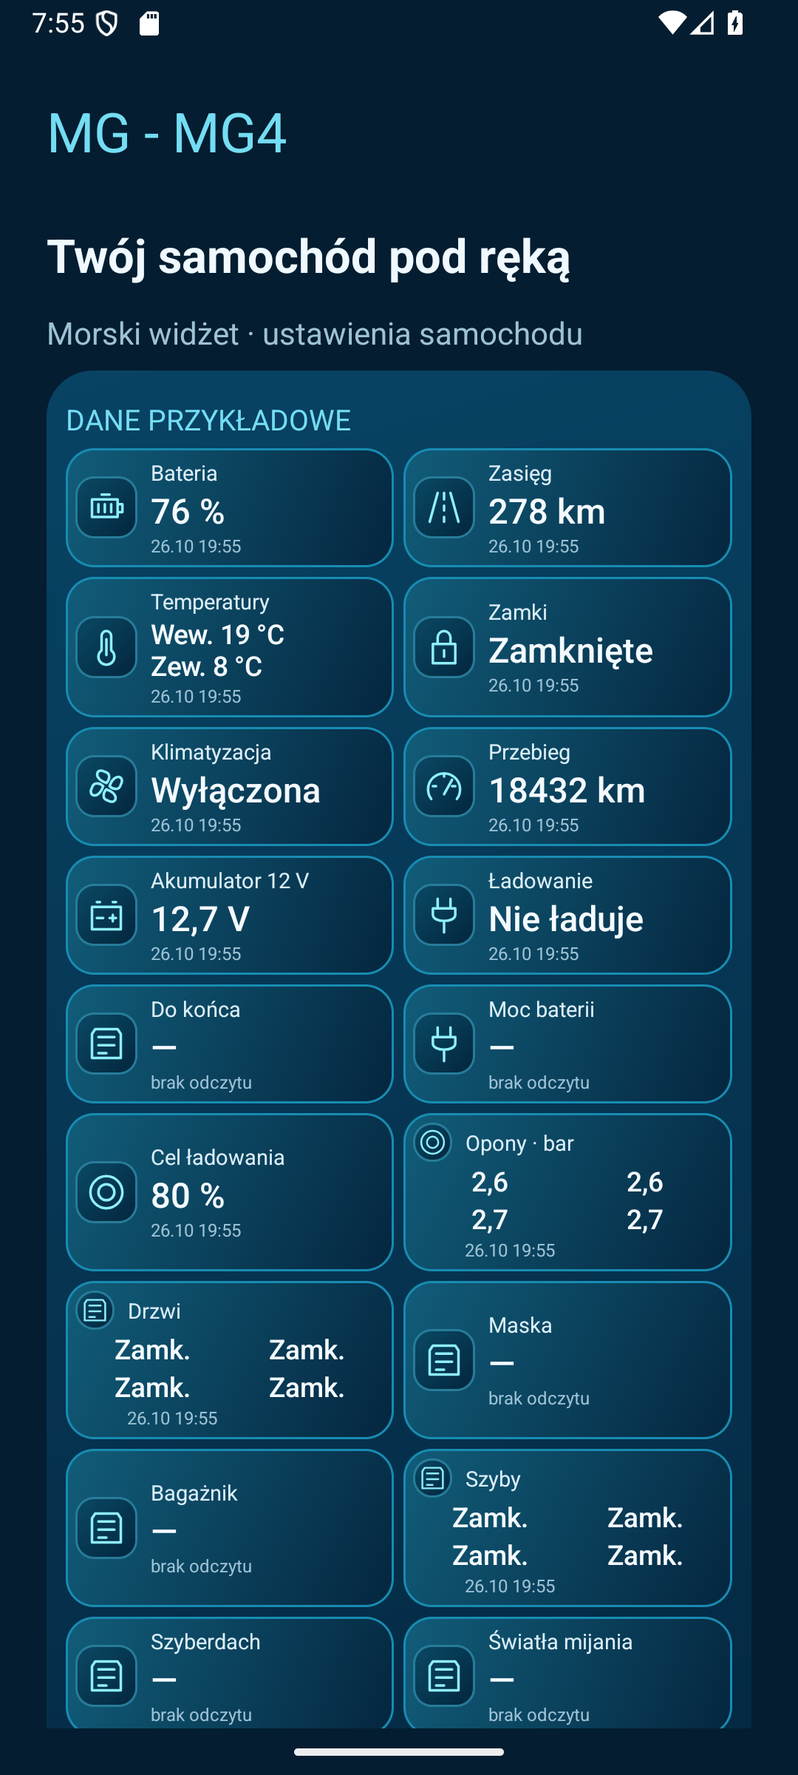
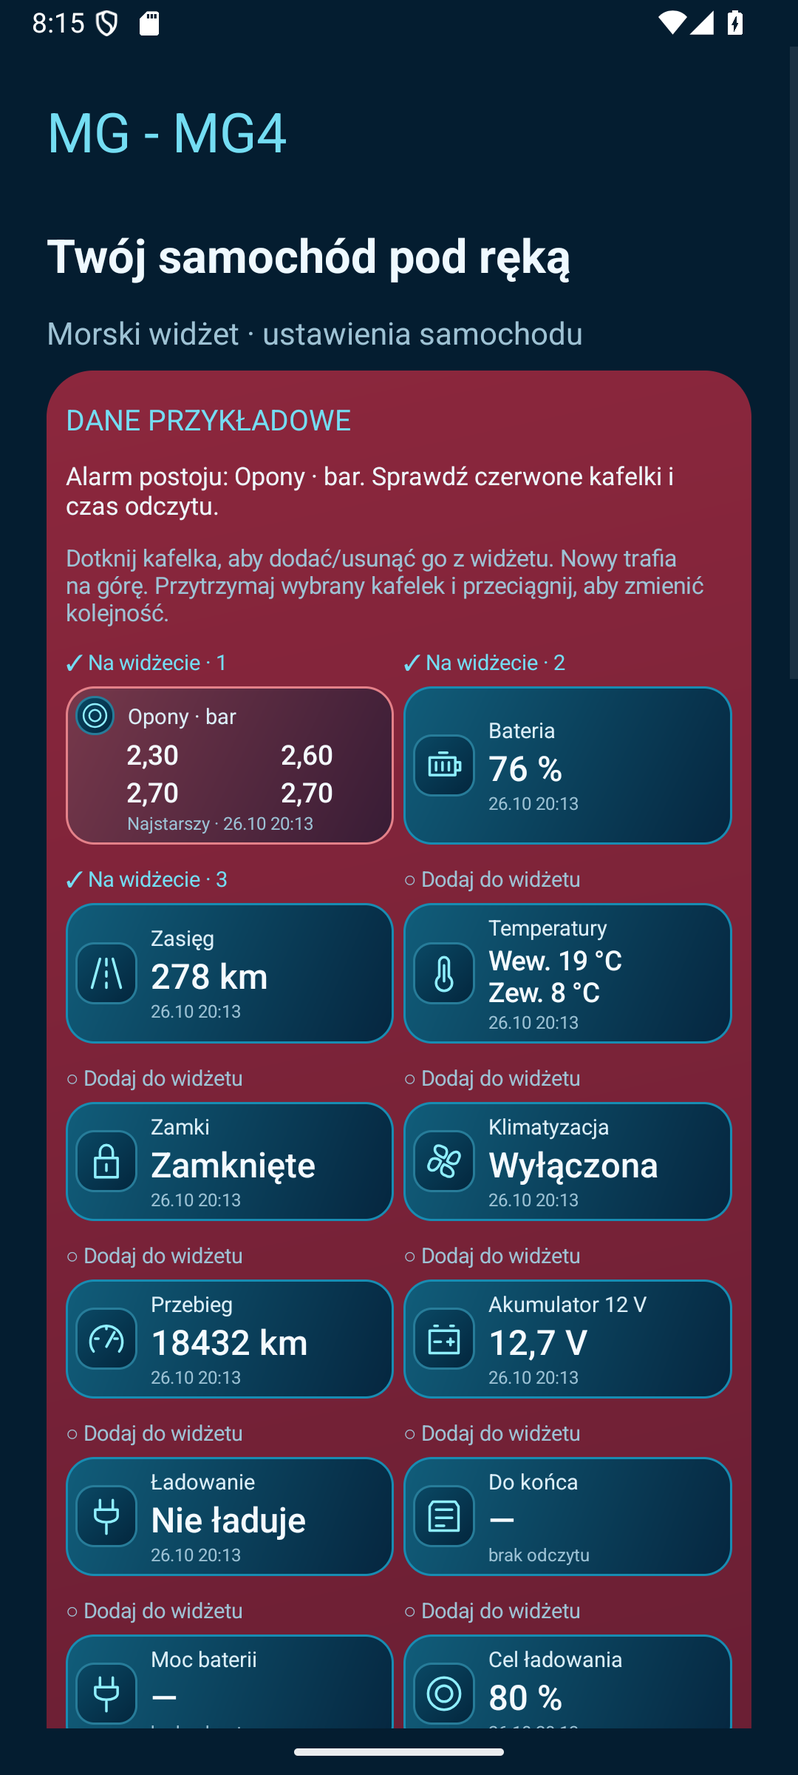
Release 0.7.0: visible alarm causes and direct tile selection

diff --git a/INSTALLATION.md b/INSTALLATION.md
@@ -4,11 +4,11 @@
 
 ### Before installing
 
-Read [RISKS.md](RISKS.md). This is unofficial experimental software distributed **outside Google Play**. Installing an APK requires you to accept the risks of sideloading. Download only from this repository's [release page](https://github.com/uberArius/mg4-widget/releases/tag/v0.6.0). Do not disable Play Protect or other security checks to work around a warning you do not understand.
+Read [RISKS.md](RISKS.md). This is unofficial experimental software distributed **outside Google Play**. Installing an APK requires you to accept the risks of sideloading. Download only from this repository's [release page](https://github.com/uberArius/mg4-widget/releases/tag/v0.7.0). Do not disable Play Protect or other security checks to work around a warning you do not understand.
 
 ### Install
 
-1. On an Android 12+ phone, download `MG4-Widget-0.6.0-debug.apk` from the release assets. GitHub's “Source code” ZIP is **not** the installer.
+1. On an Android 12+ phone, download `MG4-Widget-0.7.0-debug.apk` from the release assets. GitHub's “Source code” ZIP is **not** the installer.
 2. Open the APK. If Android blocks installation from that browser/file manager, review the warning and, only if you accept it, enable **Allow from this source** for that specific app in system settings. Install the APK. You can turn that permission off again afterwards. Device or organization restrictions may prevent installation.
 3. Open MG4 Widget, read the first-use notice, tick **I accept the risks** and press **Continue**. Without acceptance, iSMART requests and periodic refresh are blocked. Existing testers must also accept the notice after updating to this version.
 4. The build is debug-signed for testing. Install updates over the existing app when signed with the same key; do not uninstall first unless you intend to erase local account data. Connections stop on **25 November 2026 at 00:00 UTC**, regardless of installation date.
@@ -19,7 +19,7 @@ Read [RISKS.md](RISKS.md). This is unofficial experimental software distributed 
 2. Select the account region: Europe/UK or Australia/NZ. Enter email and password. The phone country-code field is used only for phone-number login; 48 means Poland and is not sent for email login. Passwords are masked; **Pokaż hasło** reveals them temporarily.
 3. Choose the vehicle. For the first test, set **Aktualizacje i Bluetooth** to periodic refresh **0** and Bluetooth refresh off. Press **Odśwież** once. Stage 1 reads vehicle status; stage 2 reads charging data. Each stage can take up to 3 minutes. Vehicle status is displayed as soon as stage 1 completes. Do not interpret a timeout as proof that a command was not executed.
 4. Use **Sprawdź wszystkie parametry auta** for a local diagnostic report. It can take up to 8 minutes, may wake the car and can show unavailable fields. It does not send control commands.
-5. Enable tiles in **Wyświetlane kafelki** and arrange them in **Zmień kolejność wybranych**. Drag a handle or use arrows; **Zapisz** saves, **Anuluj** discards. Add the widget via the app or your launcher's Widgets menu. Resize it; scroll if all enabled tiles do not fit.
+5. Tap a tile in the main app dashboard to select or deselect it for the widget. Selected tiles show ✓ and their position; new selections go to the top. Hold a selected tile and drag it onto another to reorder it; dragging onto an unselected tile moves it to the end of the selected group. Changes save immediately. Unselected readings remain below the selected group. Add the widget via the app or launcher and resize/scroll it as needed.
 6. The widget's **Odśwież** button queues a background read without opening the app. **Ogrzewanie** opens a separate confirmation screen; configure the profile before explicitly starting it. Check the resulting car state. Start with cabin heating alone, then test optional demisting/seats individually on a parked car.
 7. For trip-end refresh, pair the phone with the car, select that exact device, grant **Nearby devices**, and enable **Aktualizuj bezpośrednio po rozłączeniu BT**. Other Bluetooth devices do not trigger it. Reconnection cancels pending trip-end retries.
 8. After successful tests, choose periodic refresh (15–60 minutes). **0 + Bluetooth off** means no automatic vehicle polling, except verification after a command you explicitly start. Frequent reads may wake the car and increase 12 V battery drain.
@@ -38,11 +38,11 @@ Post the app version, phone/Android version, region, vehicle model, elapsed time
 
 ### Przed instalacją
 
-Przeczytaj [RISKS.md](RISKS.md). To nieoficjalna aplikacja eksperymentalna, udostępniana **poza Google Play**. Instalacja APK wymaga świadomego zaakceptowania ryzyka instalacji spoza sklepu. Pobieraj plik wyłącznie ze [strony wydania](https://github.com/uberArius/mg4-widget/releases/tag/v0.6.0). Nie wyłączaj Play Protect ani innych zabezpieczeń, aby ominąć niezrozumiałe ostrzeżenie.
+Przeczytaj [RISKS.md](RISKS.md). To nieoficjalna aplikacja eksperymentalna, udostępniana **poza Google Play**. Instalacja APK wymaga świadomego zaakceptowania ryzyka instalacji spoza sklepu. Pobieraj plik wyłącznie ze [strony wydania](https://github.com/uberArius/mg4-widget/releases/tag/v0.7.0). Nie wyłączaj Play Protect ani innych zabezpieczeń, aby ominąć niezrozumiałe ostrzeżenie.
 
 ### Instalacja
 
-1. Na telefonie z Androidem 12 lub nowszym pobierz `MG4-Widget-0.6.0-debug.apk` z załączników wydania. Archiwum „Source code” na GitHubie **nie jest** instalatorem.
+1. Na telefonie z Androidem 12 lub nowszym pobierz `MG4-Widget-0.7.0-debug.apk` z załączników wydania. Archiwum „Source code” na GitHubie **nie jest** instalatorem.
 2. Otwórz APK. Jeśli Android blokuje instalację z tej przeglądarki/menedżera plików, przeczytaj ostrzeżenie i tylko po akceptacji ryzyka włącz **Zezwalaj z tego źródła** dla tej konkretnej aplikacji. Zainstaluj APK. Później możesz ponownie wyłączyć to uprawnienie. Ograniczenia telefonu lub organizacji mogą uniemożliwiać instalację.
 3. Uruchom MG4 Widget, przeczytaj komunikat, zaznacz **Akceptuję ryzyko** i naciśnij **Przejdź do aplikacji**. Bez akceptacji nie są wysyłane żądania iSMART ani planowane odczyty okresowe. Dotychczasowi testerzy również zobaczą ten ekran po aktualizacji.
 4. Wersja jest podpisana kluczem debug do testów. Kolejne wersje z tym samym podpisem instaluj jako aktualizacje; odinstalowanie usuwa dane lokalne. Połączenia wygasają **25 listopada 2026 o 01:00 czasu polskiego (00:00 UTC)**, niezależnie od daty instalacji.
@@ -53,7 +53,7 @@ Przeczytaj [RISKS.md](RISKS.md). To nieoficjalna aplikacja eksperymentalna, udos
 2. Wybierz region konta: Europa/UK albo Australia/NZ. Wpisz e-mail i hasło. Kod kraju dotyczy wyłącznie logowania numerem telefonu: 48 to Polska; przy e-mailu kod nie jest wysyłany. Hasło jest zamaskowane; **Pokaż hasło** pozwala je podejrzeć.
 3. Wybierz auto. Na pierwszy test ustaw w **Aktualizacje i Bluetooth** interwał **0** i wyłącz odświeżanie po BT. Naciśnij **Odśwież** raz. Etap 1 odczytuje stan samochodu, etap 2 dane ładowania; każdy może trwać do 3 minut. Stan auta jest pokazywany od razu po etapie 1. Timeout nie dowodzi niewykonania komendy.
 4. **Sprawdź wszystkie parametry auta** tworzy lokalny raport. Może trwać do 8 minut, budzić auto i pokazywać brak części pól. Nie wysyła poleceń sterujących.
-5. Włącz kafelki w **Wyświetlane kafelki** i ustaw je w **Zmień kolejność wybranych**. Przeciągaj uchwyty lub używaj strzałek; **Zapisz** zatwierdza, **Anuluj** odrzuca zmiany. Dodaj widżet przyciskiem aplikacji lub z menu widżetów pulpitu. Zmieniaj rozmiar i przewijaj zawartość, jeśli wszystkie kafelki się nie mieszczą.
+5. Dotknij kafelka w głównym panelu aplikacji, aby wybrać go do widżetu lub usunąć z wyboru. Wybrane mają ✓ i numer pozycji; nowo wybrane trafiają na początek. Przytrzymaj wybrany kafelek i przeciągnij na inny, aby zmienić kolejność; upuszczenie na niewybranym przenosi na koniec wybranej grupy. Zmiany zapisują się od razu. Niewybrane odczyty pozostają pod wybraną grupą. Dodaj widżet z aplikacji lub menu pulpitu, zmieniaj jego rozmiar i przewijaj zawartość.
 6. **Odśwież** na widżecie zleca odczyt w tle bez otwierania aplikacji. **Ogrzewanie** otwiera ekran dodatkowego potwierdzenia. Ustaw profil przed świadomym uruchomieniem i sprawdź stan auta. Najpierw testuj samą kabinę, później osobno szybę/fotele, na zaparkowanym samochodzie.
 7. Dla odczytu po jeździe sparuj telefon z autem, wybierz dokładnie jego BT, zezwól na **Urządzenia w pobliżu** i włącz **Aktualizuj bezpośrednio po rozłączeniu BT**. Inne urządzenia nie wywołują odczytu. Ponowne połączenie anuluje oczekujące ponowienia po jeździe.
 8. Po udanych testach ustaw okresowe odświeżanie (15–60 minut). **0 + BT wyłączone** oznacza brak samoczynnego odpytywania auta, poza sprawdzeniem wyniku polecenia uruchomionego przez Ciebie. Częste odczyty mogą budzić auto i zwiększać zużycie akumulatora 12 V.

diff --git a/DESCRIPTION.md b/DESCRIPTION.md
@@ -2,11 +2,13 @@
 
 ## ENG
 
+In 0.7.0, alarm-causing tiles also turn red. Tyre pressures show hundredths (e.g. 2.38 bar) so rounding to 2.4 no longer hides a value below the threshold. The app names the warning causes above the dashboard.
+
 New in 0.6.0: the app dashboard always displays all 28 selectable tiles in two columns, with refresh and heating below the list. Widget tile selection remains independent. If the last reported drive state is OFF and any tyre is below 2.4 bar, the locks are unlocked or any door/window (including sunroof when reported), bonnet or boot is open, the outer widget/dashboard background turns red. The rule uses all stored readings, including hidden tiles. Exactly 2.4 bar is not below the threshold. Missing drive status is not assumed OFF. Cached readings can be old: check their timestamps; this is not a live safety monitor.
 
 MG4 Widget is an independent Android application focused on a configurable home-screen widget. It connects directly to the selected iSMART region and vehicle. No MQTT or additional server is needed.
 
-Choose from 28 tiles and arrange enabled tiles by dragging or using arrows. Combined tiles show both temperatures, four tyre pressures, four doors, four door windows and front-seat heating levels. Tyres, doors and windows use a physical 2×2 layout: front at the top, left on the left. Set the correct steering-wheel side for UK/Australia. The charging-plan tile shows the mode and saved hours when returned by the vehicle; a target-SOC mode does not promise a fixed end time.
+Choose from 28 tiles by tapping them directly in the app dashboard. A checkmark and position identify selected tiles. Newly selected tiles go first. Hold and drag selected tiles to reorder them; changes save immediately. Combined tiles show both temperatures, four tyre pressures, four doors, four door windows and front-seat heating levels. Tyres, doors and windows use a physical 2×2 layout: front at the top, left on the left. Set the correct steering-wheel side for UK/Australia. The charging-plan tile shows the mode and saved hours when returned by the vehicle; a target-SOC mode does not promise a fixed end time.
 
 The widget adapts to one or two columns. In one column only “MG” remains in the header. Icons and the refresh/heating buttons can be hidden. Unlocking, active climate control and charging are highlighted using received data. Missing or stale readings are not treated as current zero values.
 
@@ -20,11 +22,13 @@ This test build expires on **25 November 2026 at 00:00 UTC**. The main UI is Pol
 
 ## PL
 
+W 0.7.0 czerwone stają się również kafelki będące przyczyną alarmu. Ciśnienia mają dwa miejsca po przecinku (np. 2,38 bar), aby zaokrąglenie do 2,4 nie ukrywało wartości poniżej progu. Aplikacja wymienia przyczyny nad panelem.
+
 Nowość 0.6.0: panel aplikacji zawsze pokazuje wszystkie 28 dostępnych kafelków w dwóch kolumnach, z odświeżaniem i ogrzewaniem pod listą. Wybór kafelków widżetu pozostaje niezależny. Gdy ostatnio odczytany napęd jest wyłączony i dowolna opona ma poniżej 2,4 bar, zamki są odblokowane lub otwarte są dowolne drzwi/szyba (także szyberdach, jeśli raportowany), maska albo bagażnik, zewnętrzne tło widżetu/panelu staje się czerwone. Reguła obejmuje wszystkie zapisane odczyty, także ukryte kafelki. Dokładnie 2,4 bar nie uruchamia alarmu. Brak stanu napędu nie jest uznawany za wyłączenie. Dane mogą być stare: sprawdzaj ich czas; nie jest to monitor bezpieczeństwa działający w czasie rzeczywistym.
 
 MG4 Widget to niezależna aplikacja Android skoncentrowana na konfigurowalnym widżecie pulpitu. Łączy się bezpośrednio z wybranym regionem iSMART i samochodem. Nie wymaga MQTT ani dodatkowego serwera.
 
-Wybierz spośród 28 kafelków i ustaw kolejność przeciąganiem lub strzałkami. Zbiorcze kafelki obejmują obie temperatury, cztery ciśnienia opon, cztery drzwi, cztery szyby drzwiowe i poziomy ogrzewania przednich foteli. Opony, drzwi i szyby mają układ 2×2: przód u góry, lewa strona po lewej. Dla UK/Australii ustaw właściwą stronę kierownicy. Plan ładowania pokazuje tryb i zapisane godziny, jeśli auto je zwraca; tryb docelowego SOC nie oznacza stałej godziny końca.
+Wybierz spośród 28 kafelków, dotykając ich bezpośrednio w panelu aplikacji. Znacznik ✓ i numer oznaczają wybór do widżetu. Nowo wybrany kafelek trafia na początek. Przytrzymaj i przeciągnij wybrany kafelek, aby zmienić kolejność; zmiany zapisują się od razu. Zbiorcze kafelki obejmują obie temperatury, cztery ciśnienia opon, cztery drzwi, cztery szyby drzwiowe i poziomy ogrzewania przednich foteli. Opony, drzwi i szyby mają układ 2×2: przód u góry, lewa strona po lewej. Dla UK/Australii ustaw właściwą stronę kierownicy. Plan ładowania pokazuje tryb i zapisane godziny, jeśli auto je zwraca; tryb docelowego SOC nie oznacza stałej godziny końca.
 
 Widżet dopasowuje się do jednej lub dwóch kolumn. Przy jednej kolumnie w nagłówku zostaje tylko „MG”. Ikony i przyciski odświeżania/ogrzewania można ukryć. Odblokowane zamki, aktywny klimat i ładowanie są wyróżniane na podstawie odczytów. Brakujące lub stare dane nie są traktowane jako aktualne zero.
 

diff --git a/RELEASE_NOTES.md b/RELEASE_NOTES.md
@@ -1,21 +1,19 @@
-# v0.6.0 — parked warnings and full dashboard
+# v0.7.0 — visible alarm causes and direct tile selection
 
 ## ENG
 
-- Red outer widget background when the reported drive state is OFF and a tyre is below 2.4 bar, locks are unlocked, or a door, window/sunroof, bonnet or boot is open. Hidden tiles still participate in the check. Unknown drive state does not trigger the warning.
-- Full app dashboard: all 28 selectable tiles in two columns, with refresh/heating buttons below. Widget selection does not restrict the app dashboard.
-- Shared tile rendering keeps values, grouped 2×2 layouts and reading timestamps consistent between app and widget.
+- Alarm-causing tiles now turn red, and the app names the causes above the dashboard.
+- Tyre pressures display two decimal places: 2.38 bar no longer looks like 2.4 while triggering the < 2.4 alarm.
+- Tap dashboard tiles to select/deselect them for the widget. A ✓ and position number show selection. Newly selected tiles go to the top.
+- Hold and drag selected tiles to change their order. Changes save immediately; the separate selection list has been replaced by the dashboard.
 
-Based on the latest stored readings, not a guaranteed live safety monitor. Missing/stale data and remote climate verification remain subject to vehicle/API availability. The main app UI is Polish. Android 12+. Debug-signed test build. **Expiry unchanged: 25 November 2026, 00:00 UTC.**
-
-Read [risks](https://github.com/uberArius/mg4-widget/blob/main/RISKS.md) and [installation](https://github.com/uberArius/mg4-widget/blob/main/INSTALLATION.md). Prefer an additional iSMART account. No application source is published. Licenses are embedded in the APK and included in the documentation archive.
+Warnings use the last stored readings, which may be old. Android 12+. Polish main UI. Debug-signed test build. **Expiry unchanged: 25 November 2026, 00:00 UTC.** Remote vehicle-data reliability and climate confirmation still require field testing. No application source published; third-party licenses remain embedded and included in the documentation archive.
 
 ## PL
 
-- Czerwone zewnętrzne tło widżetu, gdy odczytany napęd jest wyłączony i opona ma poniżej 2,4 bar, zamki są odblokowane lub otwarte są drzwi, szyba/szyberdach, maska albo bagażnik. Ukryte kafelki także są uwzględniane. Nieznany stan napędu nie uruchamia ostrzeżenia.
-- Pełny panel aplikacji: wszystkie 28 dostępnych kafelków w dwóch kolumnach, z przyciskami odświeżania/ogrzewania pod listą. Wybór kafelków widżetu nie ogranicza panelu.
-- Wspólne renderowanie zapewnia zgodne wartości, układ grup 2×2 i czasy odczytów w aplikacji i widżecie.
+- Czerwone są również kafelki powodujące alarm; aplikacja wymienia przyczyny nad panelem.
+- Ciśnienie z dwoma miejscami po przecinku: 2,38 bar nie wygląda już jak 2,4 przy aktywnym alarmie < 2,4.
+- Dotknięcie kafelka w panelu wybiera/usuwa go z widżetu. ✓ i numer oznaczają wybór. Nowo zaznaczony trafia na początek.
+- Przytrzymanie i przeciągnięcie wybranego kafelka zmienia kolejność. Zapis jest natychmiastowy; panel zastępuje osobną listę wyboru.
 
-Reguła opiera się na ostatnich zapisanych odczytach, nie jest gwarantowanym monitorem bezpieczeństwa w czasie rzeczywistym. Dostępność/aktualność danych i potwierdzanie klimatyzacji wymagają dalszych prób z autem. Główny interfejs po polsku. Android 12+. Testowy podpis debug. **Termin bez zmian: 25 listopada 2026, 01:00 w Polsce (00:00 UTC).**
-
-Przeczytaj [ryzyka](https://github.com/uberArius/mg4-widget/blob/main/RISKS.md) i [instrukcję](https://github.com/uberArius/mg4-widget/blob/main/INSTALLATION.md). Używaj konta dodatkowego. Kod aplikacji nie jest publikowany. Licencje znajdują się w APK i archiwum dokumentacji.
+Ostrzeżenia korzystają z ostatnich odczytów, które mogą być stare. Android 12+. Główny interfejs po polsku. Testowy podpis debug. **Termin bez zmian: 25 listopada 2026, 01:00 w Polsce (00:00 UTC).** Odczyty z auta i potwierdzanie klimatyzacji wymagają dalszych prób. Kod aplikacji nie jest publikowany; licencje komponentów pozostają w APK i dokumentacji.

diff --git a/README.md b/README.md
@@ -2,7 +2,7 @@
 
 **An independent Android home-screen widget for MG iSMART vehicles.**
 
-[Download test APK](https://github.com/uberArius/mg4-widget/releases/tag/v0.6.0) · [Description — ENG / PL](DESCRIPTION.md) · [Installation & guide — ENG / PL](INSTALLATION.md) · [Risks — ENG / PL](RISKS.md)
+[Download test APK](https://github.com/uberArius/mg4-widget/releases/tag/v0.7.0) · [Description — ENG / PL](DESCRIPTION.md) · [Installation & guide — ENG / PL](INSTALLATION.md) · [Risks — ENG / PL](RISKS.md)
 
 > **Experimental, unofficial software.** Read [the risks](RISKS.md) before installing or connecting an account. Service access may be removed at any time. Prefer an additional iSMART account to avoid session conflicts with the manufacturer's app.
 >
@@ -11,6 +11,8 @@
 ## At a glance
 
 - A red widget background warns of low tyre pressure (< 2.4 bar), unlocked locks or open doors/windows/bonnet/boot when the last reported drive state is OFF, even if those tiles are hidden. Unknown drive state does not trigger it.
+- Tap dashboard tiles to select/deselect them for the widget. Newly selected tiles move to the top; hold and drag selected tiles to reorder them. A checkmark and position number show the selection.
+- Alarm-causing tiles turn red as well as the outer background. Tyre pressures show two decimal places, and the dashboard names the warning causes.
 - The app shows every selectable tile in two columns, with refresh and heating actions below.
 - One configurable sea-blue widget: choose and reorder tiles, hide icons or action buttons, resize to one or two columns.
 - Battery, range, cabin/outside temperatures, tyre pressures, doors, windows, seats, charging schedule and more — depending on vehicle/API availability.
@@ -21,7 +23,7 @@
 
 ## Current release
 
-**0.6.0 — public testing prerelease.** Android 12 or later (API 31+). The app currently has a Polish interface; first-use risk acceptance is available in Polish and English. Documentation is bilingual.
+**0.7.0 — public testing prerelease.** Android 12 or later (API 31+). The app currently has a Polish interface; first-use risk acceptance is available in Polish and English. Documentation is bilingual.
 
 Intended initial test vehicle: MG4 XPOWER 2024, Europe. EU/UK and AU/NZ server selection is implemented, but all regions, vehicles and shared-account permissions are **not** field-verified. Other models may expose only some readings; remote controls are limited to recognized MG4/EH32 vehicles.
 
@@ -31,13 +33,13 @@ Login has been reported working by the initial tester. Slow or unavailable vehic
 
 ![Sea-blue widget with sample readings](docs/images/widget-preview.png)
 
-Demo data only, from v0.6.0. One-column mode hides the model name. The app icon uses custom angular MG letters, not the manufacturer's emblem.
+Demo data only. One-column mode hides the model name. The app icon uses custom angular MG letters, not the manufacturer's emblem.
 
-[Full two-column app dashboard](docs/images/app-dashboard.png) · [Red warning with a hidden tyre tile](docs/images/widget-alert.png)
+[Full two-column app dashboard](docs/images/app-dashboard.png) · [Red warning and the triggering tyre tile](docs/images/widget-alert.png)
 
 ## Download and install
 
-Open [release v0.6.0](https://github.com/uberArius/mg4-widget/releases/tag/v0.6.0) and download `MG4-Widget-0.6.0-debug.apk`. The build is debug-signed for testing. Follow the [installation guide](INSTALLATION.md), review the risks and accept them on first launch. APKs are release assets, not committed application source.
+Open [release v0.7.0](https://github.com/uberArius/mg4-widget/releases/tag/v0.7.0) and download `MG4-Widget-0.7.0-debug.apk`. The build is debug-signed for testing. Follow the [installation guide](INSTALLATION.md), review the risks and accept them on first launch. APKs are release assets, not committed application source.
 
 This repository contains documentation, notices, preview images and download links. **The application source code is not published.** GitHub's automatically generated “Source code” archives contain only this repository's public materials.
 

diff --git a/VALIDATION.md b/VALIDATION.md
@@ -1,11 +1,11 @@
-# Validation — v0.6.0 (26 October 2026)
+# Validation — v0.7.0 (26 October 2026)
 
 - Android APK and test APK built; lint passed with no errors.
-- 33 JVM unit tests passed (0 failures). Four new tests cover drive OFF/ON/unknown, each tyre and the strict 2.4 bar boundary, every supported opening and non-triggering missing/climate data.
-- Emulator API 36 smoke tests passed: consent, scheduling, expiry, field migration and demo diagnostics.
-- Verified all 28 dashboard tile labels by scrolling, even though only 10 tiles were selected for the widget. Refresh button follows the complete list. App dashboard screenshot inspected.
-- Verified red widget background with only battery/range visible while a hidden tyre reports 2.3 bar and drive reports OFF. Screenshot inspected. Synthetic/demo data only.
-- Reused widget tile binding in the app dashboard; no changes to API commands.
-- Real vehicle readings and climate confirmation still require field testing. Cached warning data may be old; there is no guarantee of real-time safety monitoring.
+- 37 JVM unit tests passed (0 failures). Coverage includes drive OFF/ON/unknown, the strict 2.4 bar boundary, grouped alarm causes, two-decimal pressure display, selection/prepending and reordering.
+- API 36 emulator smoke tests passed: consent, scheduling, expiry, field migration and demo diagnostics.
+- Emulator touch checks confirmed adding an unselected tile at the top, deselecting, holding/dragging to reorder, and persistence after restarting the activity.
+- Inspected the dashboard with a red tyre tile, a named warning cause, checkmarks and selection positions. Hidden tyre data still triggers the outer warning.
+- No changes to vehicle API commands. No real vehicle or account was used in these tests.
+- Real vehicle readings and climate confirmation still require field testing. Cached warning data may be old; this is not guaranteed real-time safety monitoring.
 
 No application source is published. Test expiry remains 25 November 2026, 00:00 UTC.
